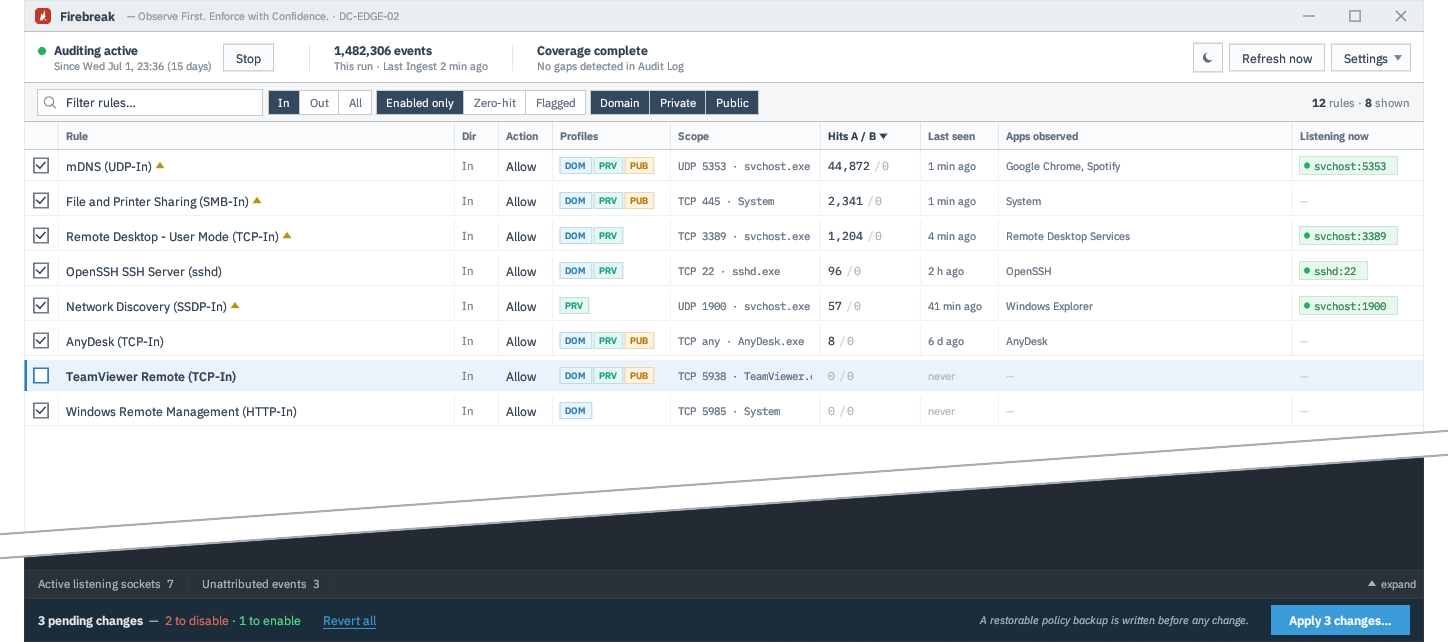
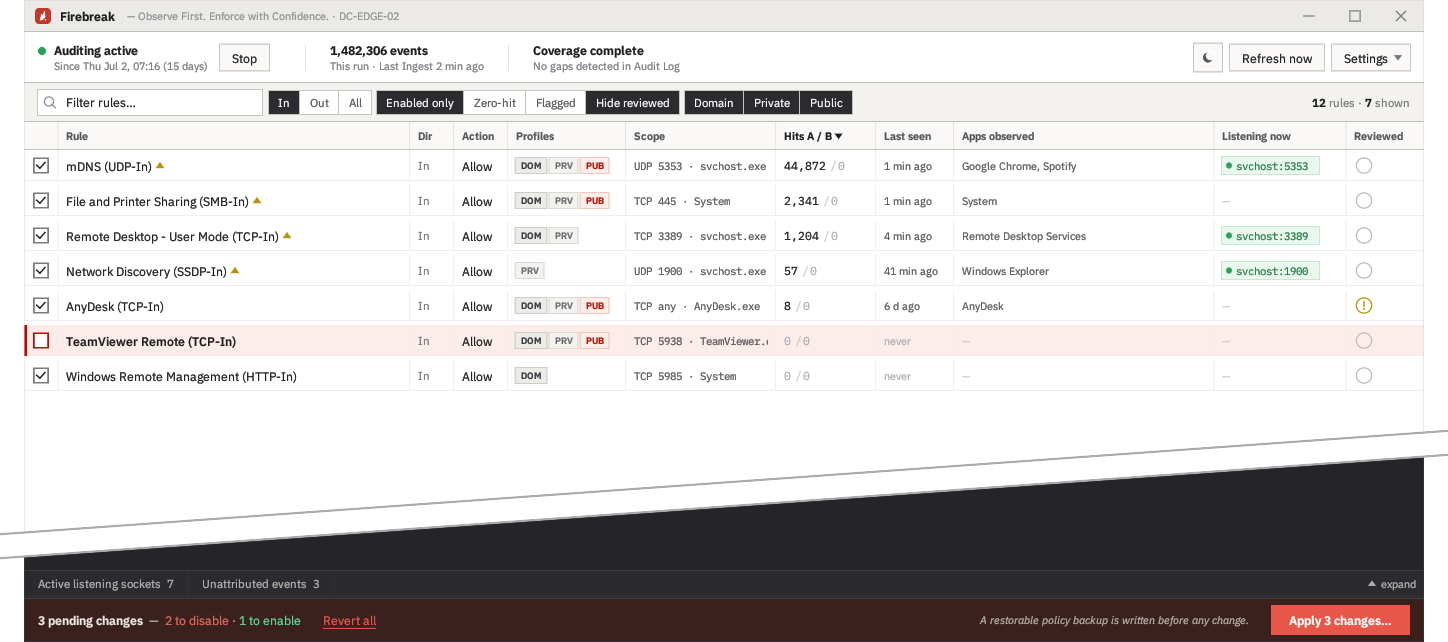
Adopt the Char & Flame palette; bump to 0.5.8
Five source colors: Gogh Red CC0000, Char 1C1C1E, Smoke 55565A, Ash
A9ABAF, Bone F4F2EF. Red is the only brand chroma and marks
consequence: pending changes, Apply, destructive verbs, block counts,
and the PUB profile chip (public = the exposed surface). Domain/
Private chips and active segments become charred neutrals; all
surfaces, borders, and text greys are warm bone/char derivations.
Green/amber remain functional-status only. Palette trial machinery
removed; fonts reverted to IBM Plex (Alegreya parked). README
screenshot regenerated.

diff --git a/src/theme.rs b/src/theme.rs
@@ -25,71 +25,23 @@ fn c(light: (u8, u8, u8), dark: (u8, u8, u8)) -> Color32 {
     Color32::from_rgb(r, g, b)
 }
 
-/// Palette trial switch: FIREBREAK_PALETTE=1..5 picks a candidate accent
-/// family (0/default = current azure). Temporary until a palette is chosen.
-fn palette() -> usize {
-    static P: std::sync::OnceLock<usize> = std::sync::OnceLock::new();
-    *P.get_or_init(|| {
-        std::env::var("FIREBREAK_PALETTE").ok().and_then(|v| v.parse().ok()).filter(|&v| v <= 5).unwrap_or(0)
-    })
-}
-
-/// One color across the 6 palette candidates: [azure, ember, charcoal,
-/// evergreen, ink, copper], each as (light, dark).
-#[inline]
-fn pc(v: [((u8, u8, u8), (u8, u8, u8)); 6]) -> Color32 {
-    let (l, d) = v[palette()];
-    c(l, d)
-}
-
-// ---- semantic palette (light, dark) ----
-pub fn ACCENT() -> Color32 {
-    pc([
-        ((0x29, 0x80, 0xB9), (0x3B, 0x9B, 0xD8)), // azure (current)
-        ((0xCC, 0x00, 0x00), (0xE8, 0x5D, 0x4F)), // ember — the Gogh red itself
-        ((0x2E, 0x33, 0x38), (0xAA, 0xB6, 0xC0)), // charcoal — red is the only chroma
-        ((0x1F, 0x6E, 0x54), (0x45, 0xAC, 0x86)), // evergreen
-        ((0x35, 0x47, 0x7D), (0x87, 0x9A, 0xDE)), // ink (deep indigo)
-        ((0xA8, 0x62, 0x2A), (0xD2, 0x8D, 0x50)), // copper
-    ])
-}
-pub fn ACCENT_TINT() -> Color32 {
-    pc([
-        ((0xEA, 0xF3, 0xFC), (0x1B, 0x2C, 0x3A)),
-        ((0xFC, 0xE9, 0xE7), (0x3A, 0x1E, 0x1B)),
-        ((0xED, 0xEF, 0xF1), (0x26, 0x2B, 0x30)),
-        ((0xE7, 0xF3, 0xEE), (0x1A, 0x2E, 0x26)),
-        ((0xEA, 0xEE, 0xF8), (0x1F, 0x25, 0x38)),
-        ((0xF8, 0xEF, 0xE6), (0x33, 0x26, 0x1A)),
-    ])
-}
-pub fn ACCENT_TINT_BORDER() -> Color32 {
-    pc([
-        ((0xB9, 0xD4, 0xEE), (0x2E, 0x4A, 0x63)),
-        ((0xF2, 0xC7, 0xC1), (0x5E, 0x2D, 0x27)),
-        ((0xD2, 0xD8, 0xDD), (0x3D, 0x45, 0x4C)),
-        ((0xBF, 0xDE, 0xD2), (0x2D, 0x4C, 0x3F)),
-        ((0xC6, 0xD0, 0xE8), (0x37, 0x41, 0x5E)),
-        ((0xE6, 0xCD, 0xB3), (0x52, 0x3C, 0x28)),
-    ])
-}
-pub fn SELECTED_ROW() -> Color32 {
-    pc([
-        ((0xE7, 0xF0, 0xFA), (0x1D, 0x2B, 0x39)),
-        ((0xFA, 0xE7, 0xE5), (0x38, 0x20, 0x1D)),
-        ((0xEA, 0xED, 0xEF), (0x25, 0x2A, 0x2E)),
-        ((0xE4, 0xF0, 0xEB), (0x19, 0x2C, 0x25)),
-        ((0xE7, 0xEC, 0xF7), (0x1E, 0x24, 0x36)),
-        ((0xF6, 0xED, 0xE3), (0x31, 0x25, 0x19)),
-    ])
-}
+// ---- semantic palette: "Char & Flame" (light, dark) ----
+// Five source colors: Gogh Red CC0000 · Char 1C1C1E · Smoke 55565A ·
+// Ash A9ABAF · Bone F4F2EF. Red is the only brand chroma — it marks
+// consequence (pending changes, destructive verbs, blocks, public
+// exposure). Everything else is charred neutral derived from Char/Ash/
+// Bone. Green/amber survive purely as functional status colors.
+pub fn ACCENT() -> Color32 { c((0xCC, 0x00, 0x00), (0xE8, 0x56, 0x4A)) }
+pub fn ACCENT_TINT() -> Color32 { c((0xFC, 0xED, 0xEA), (0x3A, 0x21, 0x1E)) }
+pub fn ACCENT_TINT_BORDER() -> Color32 { c((0xF2, 0xC9, 0xC0), (0x5E, 0x2D, 0x26)) }
+pub fn SELECTED_ROW() -> Color32 { c((0xED, 0xEA, 0xE5), (0x2A, 0x2A, 0x2E)) }
 pub fn DESTRUCTIVE() -> Color32 { c((0xCC, 0x00, 0x00), (0xE5, 0x4B, 0x3C)) }
 pub fn DESTRUCTIVE_DARK() -> Color32 { c((0x9E, 0x00, 0x00), (0xC2, 0x3B, 0x2E)) }
-pub fn FAIL_BG() -> Color32 { c((0xFB, 0xEF, 0xED), (0x38, 0x23, 0x21)) }
-pub fn FAIL_BORDER() -> Color32 { c((0xE3, 0xB8, 0xB1), (0x6E, 0x3E, 0x3A)) }
+pub fn FAIL_BG() -> Color32 { c((0xFB, 0xED, 0xEA), (0x3A, 0x23, 0x20)) }
+pub fn FAIL_BORDER() -> Color32 { c((0xE8, 0xBD, 0xB4), (0x6E, 0x3E, 0x38)) }
 pub fn BLOCK() -> Color32 { c((0xB5, 0x15, 0x08), (0xE0, 0x6B, 0x5E)) }
-pub fn LIVE() -> Color32 { c((0x27, 0xAE, 0x60), (0x2E, 0xCC, 0x71)) }
-pub fn LIVE_TEXT() -> Color32 { c((0x1E, 0x84, 0x49), (0x56, 0xD9, 0x8A)) }
+pub fn LIVE() -> Color32 { c((0x2E, 0x9E, 0x5B), (0x3B, 0xC4, 0x74)) }
+pub fn LIVE_TEXT() -> Color32 { c((0x23, 0x7A, 0x46), (0x62, 0xD9, 0x93)) }
 pub fn LIVE_BG() -> Color32 { c((0xEA, 0xF7, 0xEF), (0x14, 0x2E, 0x1E)) }
 pub fn LIVE_BORDER() -> Color32 { c((0xC5, 0xE8, 0xD2), (0x2E, 0x5C, 0x3F)) }
 pub fn ADVISORY() -> Color32 { c((0xB7, 0x95, 0x0B), (0xE0, 0xB9, 0x3A)) }
@@ -98,84 +50,66 @@ pub fn ADVISORY_BORDER() -> Color32 { c((0xEB, 0xD9, 0x8A), (0x5C, 0x4E, 0x1E)) 
 pub fn ADVISORY_TEXT() -> Color32 { c((0x7D, 0x66, 0x08), (0xE8, 0xC8, 0x60)) }
 pub fn ADVISORY_HEADER() -> Color32 { c((0x9A, 0x7D, 0x0A), (0xD4, 0xB4, 0x40)) }
 
-pub fn INK() -> Color32 { c((0x2C, 0x3E, 0x50), (0xE6, 0xEA, 0xEE)) }
-pub fn SECONDARY() -> Color32 { c((0x5D, 0x6D, 0x7E), (0xAE, 0xB8, 0xC2)) }
-pub fn TERTIARY() -> Color32 { c((0x76, 0x83, 0x8F), (0x93, 0xA0, 0xAC)) }
-pub fn FAINT() -> Color32 { c((0x8B, 0x96, 0xA0), (0x7C, 0x88, 0x93)) }
-pub fn DISABLED() -> Color32 { c((0xA9, 0xB4, 0xBE), (0x5C, 0x67, 0x71)) }
-pub fn HAIRLINE_TEXT() -> Color32 { c((0xC3, 0xCC, 0xD4), (0x48, 0x52, 0x5C)) }
+pub fn INK() -> Color32 { c((0x1C, 0x1C, 0x1E), (0xE9, 0xE7, 0xE4)) }
+pub fn SECONDARY() -> Color32 { c((0x55, 0x56, 0x5A), (0xB6, 0xB4, 0xB0)) }
+pub fn TERTIARY() -> Color32 { c((0x77, 0x78, 0x7D), (0x96, 0x97, 0x9B)) }
+pub fn FAINT() -> Color32 { c((0x8E, 0x8F, 0x94), (0x7F, 0x80, 0x85)) }
+pub fn DISABLED() -> Color32 { c((0xAD, 0xAE, 0xB3), (0x5E, 0x5F, 0x64)) }
+pub fn HAIRLINE_TEXT() -> Color32 { c((0xC9, 0xC8, 0xC4), (0x4A, 0x4B, 0x50)) }
 
-pub fn CHROME() -> Color32 { c((0xF4, 0xF6, 0xF8), (0x20, 0x25, 0x2B)) }
-pub fn TABLE_BG() -> Color32 { c((0xFF, 0xFF, 0xFF), (0x24, 0x2A, 0x31)) }
-pub fn RAISED() -> Color32 { c((0xFA, 0xFB, 0xFC), (0x2A, 0x31, 0x38)) }
-pub fn TITLEBAR() -> Color32 { c((0xEB, 0xEE, 0xF1), (0x18, 0x1D, 0x22)) }
-pub fn BORDER() -> Color32 { c((0xD5, 0xDC, 0xE2), (0x3B, 0x43, 0x4C)) }
-pub fn BORDER_LIGHT() -> Color32 { c((0xE1, 0xE6, 0xEA), (0x30, 0x37, 0x3E)) }
-pub fn ROW_BORDER() -> Color32 { c((0xEE, 0xF1, 0xF4), (0x2C, 0x33, 0x3A)) }
-pub fn CONTROL_BORDER() -> Color32 { c((0xC3, 0xCC, 0xD3), (0x45, 0x4F, 0x59)) }
-pub fn DARK_SEGMENT() -> Color32 {
-    pc([
-        ((0x34, 0x49, 0x5E), (0x3B, 0x9B, 0xD8)),
-        ((0x3B, 0x3B, 0x3B), (0xE8, 0x5D, 0x4F)),
-        ((0x2E, 0x33, 0x38), (0x4C, 0x55, 0x5E)),
-        ((0x24, 0x46, 0x3A), (0x45, 0xAC, 0x86)),
-        ((0x2B, 0x3A, 0x66), (0x87, 0x9A, 0xDE)),
-        ((0x6B, 0x44, 0x23), (0xD2, 0x8D, 0x50)),
-    ])
-}
-pub fn HOVER_WASH() -> Color32 {
-    pc([
-        ((0xF5, 0xF8, 0xFB), (0x2E, 0x36, 0x3E)),
-        ((0xFA, 0xF5, 0xF4), (0x34, 0x2E, 0x2D)),
-        ((0xF5, 0xF6, 0xF7), (0x2C, 0x32, 0x37)),
-        ((0xF3, 0xF8, 0xF6), (0x28, 0x31, 0x2D)),
-        ((0xF5, 0xF6, 0xFA), (0x2B, 0x2F, 0x3A)),
-        ((0xFA, 0xF7, 0xF3), (0x33, 0x30, 0x2C)),
-    ])
-}
+pub fn CHROME() -> Color32 { c((0xF4, 0xF2, 0xEF), (0x20, 0x20, 0x23)) }
+pub fn TABLE_BG() -> Color32 { c((0xFF, 0xFF, 0xFF), (0x25, 0x25, 0x28)) }
+pub fn RAISED() -> Color32 { c((0xFA, 0xF9, 0xF7), (0x2B, 0x2B, 0x2F)) }
+pub fn TITLEBAR() -> Color32 { c((0xEC, 0xEA, 0xE6), (0x1C, 0x1C, 0x1E)) }
+pub fn BORDER() -> Color32 { c((0xD6, 0xD4, 0xCF), (0x3E, 0x3F, 0x44)) }
+pub fn BORDER_LIGHT() -> Color32 { c((0xE4, 0xE2, 0xDD), (0x33, 0x34, 0x38)) }
+pub fn ROW_BORDER() -> Color32 { c((0xF0, 0xEE, 0xEA), (0x2E, 0x2F, 0x33)) }
+pub fn CONTROL_BORDER() -> Color32 { c((0xC7, 0xC5, 0xC0), (0x4A, 0x4B, 0x51)) }
+pub fn DARK_SEGMENT() -> Color32 { c((0x2C, 0x2C, 0x30), (0x56, 0x57, 0x5D)) }
+pub fn HOVER_WASH() -> Color32 { c((0xF7, 0xF5, 0xF1), (0x2A, 0x2A, 0x2E)) }
 pub fn LOGO_RED() -> Color32 { Color32::from_rgb(0xCC, 0x00, 0x00) }
-pub fn ENABLE_GREEN() -> Color32 { c((0x1E, 0x84, 0x49), (0x56, 0xD9, 0x8A)) }
+pub fn ENABLE_GREEN() -> Color32 { c((0x23, 0x7A, 0x46), (0x62, 0xD9, 0x93)) }
 pub fn BACKUP_BG() -> Color32 { c((0xF0, 0xF8, 0xF2), (0x14, 0x2E, 0x1E)) }
 pub fn BACKUP_BORDER() -> Color32 { c((0xC8, 0xE4, 0xCE), (0x2E, 0x5C, 0x3F)) }
 pub fn BACKUP_TEXT() -> Color32 { c((0x19, 0x6F, 0x3D), (0x7D, 0xDB, 0xA0)) }
-pub fn VERB_DISABLE_BG() -> Color32 { c((0xFB, 0xF4, 0xF2), (0x38, 0x23, 0x21)) }
-pub fn CB_SAVED_BORDER() -> Color32 { c((0x6C, 0x7A, 0x89), (0x8A, 0x97, 0xA2)) }
-pub fn CB_EMPTY_BORDER() -> Color32 { c((0xB6, 0xC0, 0xC9), (0x5A, 0x65, 0x70)) }
-pub fn PROGRESS_TRACK() -> Color32 { c((0xD3, 0xE4, 0xF5), (0x2E, 0x41, 0x52)) }
-pub fn FIRSTRUN_DASH() -> Color32 { c((0xD3, 0xDA, 0xE0), (0x45, 0x4F, 0x59)) }
+pub fn VERB_DISABLE_BG() -> Color32 { c((0xFB, 0xF2, 0xEF), (0x3A, 0x23, 0x20)) }
+pub fn CB_SAVED_BORDER() -> Color32 { c((0x7A, 0x7B, 0x80), (0x8E, 0x8F, 0x94)) }
+pub fn CB_EMPTY_BORDER() -> Color32 { c((0xBE, 0xBD, 0xB8), (0x5E, 0x5F, 0x65)) }
+pub fn PROGRESS_TRACK() -> Color32 { c((0xF5, 0xD9, 0xD4), (0x4A, 0x2B, 0x27)) }
+pub fn FIRSTRUN_DASH() -> Color32 { c((0xD6, 0xD4, 0xCF), (0x4A, 0x4B, 0x51)) }
 
 // profile chips: (label, fg, bg, border)
+// Domain/Private are quiet charred neutrals; PUBLIC is the one red chip —
+// the public profile is the exposed surface, so it carries the flame.
 pub fn CHIP_DOM() -> (&'static str, Color32, Color32, Color32) {
-    ("DOM", c((0x29, 0x80, 0xB9), (0x5A, 0xB0, 0xE6)), c((0xEA, 0xF4, 0xFB), (0x1B, 0x2C, 0x3A)), c((0xBC, 0xD9, 0xEE), (0x2E, 0x4A, 0x63)))
+    ("DOM", c((0x3A, 0x3B, 0x40), (0xC6, 0xC7, 0xCB)), c((0xEC, 0xEB, 0xE7), (0x30, 0x30, 0x34)), c((0xCE, 0xCD, 0xC8), (0x4A, 0x4B, 0x50)))
 }
 pub fn CHIP_PRV() -> (&'static str, Color32, Color32, Color32) {
-    ("PRV", c((0x16, 0xA0, 0x85), (0x4C, 0xD3, 0xB4)), c((0xE8, 0xF6, 0xF3), (0x13, 0x2E, 0x28)), c((0xBA, 0xE2, 0xD9), (0x2C, 0x55, 0x4B)))
+    ("PRV", c((0x6E, 0x6F, 0x74), (0x9E, 0x9F, 0xA4)), c((0xF3, 0xF2, 0xEF), (0x2A, 0x2A, 0x2E)), c((0xDC, 0xDA, 0xD5), (0x40, 0x41, 0x46)))
 }
 pub fn CHIP_PUB() -> (&'static str, Color32, Color32, Color32) {
-    ("PUB", c((0xB9, 0x77, 0x0E), (0xE0, 0xA9, 0x40)), c((0xFD, 0xF3, 0xE3), (0x33, 0x2A, 0x14)), c((0xF0, 0xD5, 0xA8), (0x5C, 0x48, 0x20)))
+    ("PUB", c((0xB5, 0x15, 0x08), (0xE8, 0x77, 0x6B)), c((0xFB, 0xED, 0xEA), (0x3A, 0x21, 0x1E)), c((0xEF, 0xC7, 0xBF), (0x5E, 0x2D, 0x26)))
 }
 pub fn CHIP_ANY() -> (&'static str, Color32, Color32, Color32) {
-    ("ANY", c((0x76, 0x83, 0x8F), (0x93, 0xA0, 0xAC)), c((0xEE, 0xF1, 0xF3), (0x2C, 0x33, 0x3A)), c((0xD3, 0xDA, 0xE0), (0x45, 0x4F, 0x59)))
+    ("ANY", c((0x85, 0x86, 0x8B), (0x96, 0x97, 0x9B)), c((0xF0, 0xEF, 0xEC), (0x2C, 0x2C, 0x30)), c((0xD8, 0xD6, 0xD1), (0x46, 0x47, 0x4C)))
 }
 
 // ---- fonts ----
 
-const SANS: &str = "alegreya-sans";
-const SANS_MEDIUM: &str = "alegreya-sans-medium";
-const SANS_SEMIBOLD: &str = "alegreya-sans-bold";
-const SANS_ITALIC: &str = "alegreya-sans-italic";
-const SERIF: &str = "alegreya-serif-bold";
+const SANS: &str = "plex-sans";
+const SANS_MEDIUM: &str = "plex-sans-medium";
+const SANS_SEMIBOLD: &str = "plex-sans-semibold";
+const SANS_ITALIC: &str = "plex-sans-italic";
 const MONO: &str = "plex-mono";
 const MONO_MEDIUM: &str = "plex-mono-medium";
 
 pub fn install_fonts(ctx: &egui::Context) {
     let mut fonts = egui::FontDefinitions::default();
-    let faces: [(&str, &[u8]); 7] = [
-        (SANS, include_bytes!("../assets/fonts/AlegreyaSans-Regular.ttf")),
-        (SANS_MEDIUM, include_bytes!("../assets/fonts/AlegreyaSans-Medium.ttf")),
-        (SANS_SEMIBOLD, include_bytes!("../assets/fonts/AlegreyaSans-Bold.ttf")),
-        (SANS_ITALIC, include_bytes!("../assets/fonts/AlegreyaSans-Italic.ttf")),
-        (SERIF, include_bytes!("../assets/fonts/Alegreya-Bold.ttf")),
+    let faces: [(&str, &[u8]); 6] = [
+        (SANS, include_bytes!("../assets/fonts/IBMPlexSans-Regular.ttf")),
+        (SANS_MEDIUM, include_bytes!("../assets/fonts/IBMPlexSans-Medium.ttf")),
+        (SANS_SEMIBOLD, include_bytes!("../assets/fonts/IBMPlexSans-SemiBold.ttf")),
+        (SANS_ITALIC, include_bytes!("../assets/fonts/IBMPlexSans-Italic.ttf")),
         (MONO, include_bytes!("../assets/fonts/IBMPlexMono-Regular.ttf")),
         (MONO_MEDIUM, include_bytes!("../assets/fonts/IBMPlexMono-Medium.ttf")),
     ];
@@ -189,7 +123,7 @@ pub fn install_fonts(ctx: &egui::Context) {
         .get(&FontFamily::Proportional)
         .cloned()
         .unwrap_or_default();
-    for name in [SANS, SANS_MEDIUM, SANS_SEMIBOLD, SANS_ITALIC, SERIF, MONO, MONO_MEDIUM] {
+    for name in [SANS, SANS_MEDIUM, SANS_SEMIBOLD, SANS_ITALIC, MONO, MONO_MEDIUM] {
         let mut stack = vec![name.to_string()];
         stack.extend(default_stack.iter().cloned());
         fonts.families.insert(FontFamily::Name(name.into()), stack);
@@ -205,8 +139,6 @@ pub fn semibold(size: f32) -> FontId { FontId::new(size, FontFamily::Name(SANS_S
 pub fn italic(size: f32) -> FontId { FontId::new(size, FontFamily::Name(SANS_ITALIC.into())) }
 pub fn mono(size: f32) -> FontId { FontId::new(size, FontFamily::Name(MONO.into())) }
 pub fn mono_medium(size: f32) -> FontId { FontId::new(size, FontFamily::Name(MONO_MEDIUM.into())) }
-/// Alegreya serif — brand face, used only for the app name.
-pub fn serif(size: f32) -> FontId { FontId::new(size, FontFamily::Name(SERIF.into())) }
 
 /// (Re)apply egui visuals for the current mode. Call after set_dark.
 pub fn apply_visuals(ctx: &egui::Context) {

diff --git a/src/ui/paint.rs b/src/ui/paint.rs
@@ -216,7 +216,7 @@ fn titlebar(app: &mut App, ctx: &egui::Context) {
             let logo_rect = Rect::from_min_size(Pos2::new(rect.left() + 10.0, rect.center().y - 9.0), Vec2::splat(18.0));
             p.image(logo.id(), logo_rect, Rect::from_min_max(Pos2::ZERO, Pos2::new(1.0, 1.0)), Color32::WHITE);
             let name_pos = Pos2::new(logo_rect.right() + 8.0, rect.center().y);
-            let name_galley = p.layout_no_wrap("Firebreak".to_string(), t::serif(14.0), t::INK());
+            let name_galley = p.layout_no_wrap("Firebreak".to_string(), t::semibold(12.0), t::INK());
             p.galley(Pos2::new(name_pos.x, name_pos.y - name_galley.size().y / 2.0), name_galley.clone(), t::INK());
             let host = if app.ctx_info.hostname.is_empty() { String::new() } else { format!(" · {}", app.ctx_info.hostname) };
             // catchline sits just after the name (small fixed gap), not floated far right
@@ -233,7 +233,7 @@ fn titlebar(app: &mut App, ctx: &egui::Context) {
                 }
                 let is_close = i == 2;
                 if hovered {
-                    ui.painter().rect_filled(bx, 0.0, if is_close { t::DESTRUCTIVE() } else { Color32::from_rgb(0xDD, 0xE1, 0xE6) });
+                    ui.painter().rect_filled(bx, 0.0, if is_close { t::DESTRUCTIVE() } else { Color32::from_rgb(0xDE, 0xDC, 0xD8) });
                 }
                 let col = if hovered && is_close { Color32::WHITE } else { t::TERTIARY() };
                 let c = bx.center();
@@ -578,7 +578,7 @@ fn about_box(app: &mut App, ctx: &egui::Context) {
         return;
     }
     egui::Area::new(egui::Id::new("about_scrim")).order(egui::Order::Background).show(ctx, |ui| {
-        ui.painter().rect_filled(ctx.screen_rect(), 0.0, Color32::from_rgba_unmultiplied(44, 62, 80, 90));
+        ui.painter().rect_filled(ctx.screen_rect(), 0.0, Color32::from_rgba_unmultiplied(28, 28, 30, 90));
     });
     let mut open = true;
     egui::Window::new("about")
@@ -597,7 +597,7 @@ fn about_box(app: &mut App, ctx: &egui::Context) {
                 ui.painter().image(logo.id(), r, Rect::from_min_max(Pos2::ZERO, Pos2::new(1.0, 1.0)), Color32::WHITE);
                 ui.add_space(8.0);
                 ui.vertical(|ui| {
-                    ui.label(egui::RichText::new("Firebreak").font(t::serif(19.0)).color(t::INK()));
+                    ui.label(egui::RichText::new("Firebreak").font(t::semibold(15.0)).color(t::INK()));
                     ui.label(egui::RichText::new(format!("Version {}", crate::pipeline::version_string())).font(t::mono(11.0)).color(t::SECONDARY()));
                 });
             });
@@ -2040,7 +2040,7 @@ fn confirm_modal(app: &mut App, ctx: &egui::Context) {
     // scrim
     egui::Area::new("scrim".into()).order(egui::Order::Background).show(ctx, |ui| {
         let r = ctx.screen_rect();
-        ui.painter().rect_filled(r, 0.0, Color32::from_rgba_unmultiplied(44, 62, 80, 102));
+        ui.painter().rect_filled(r, 0.0, Color32::from_rgba_unmultiplied(28, 28, 30, 102));
     });
     let mut open = true;
     // list gets up to ~55% of the window height before it scrolls